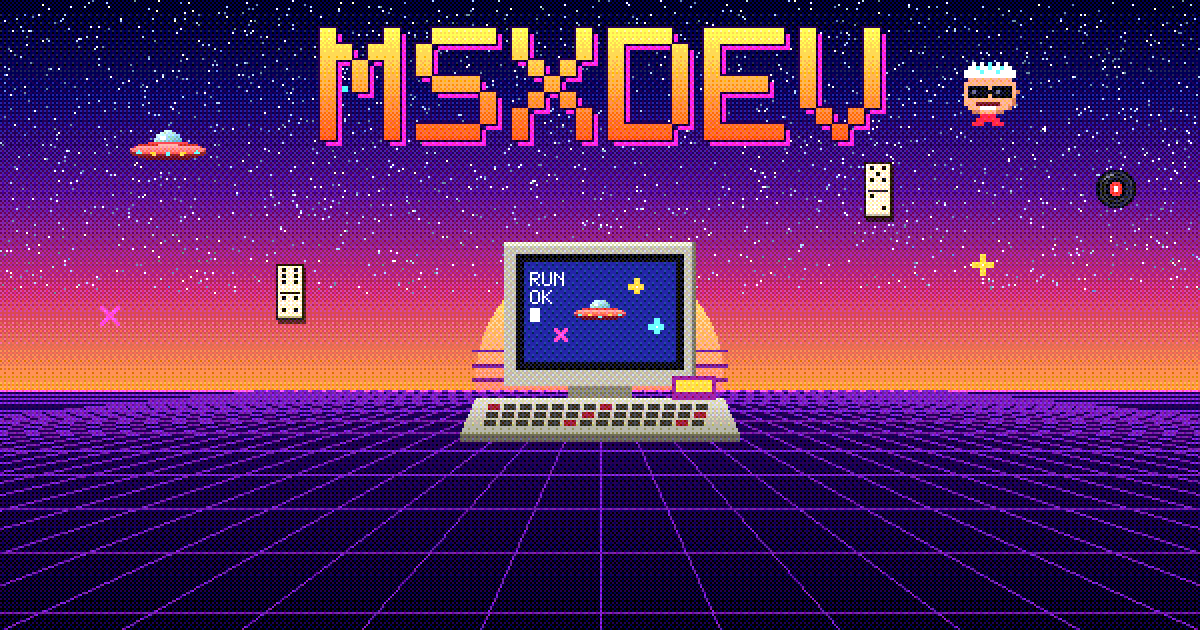
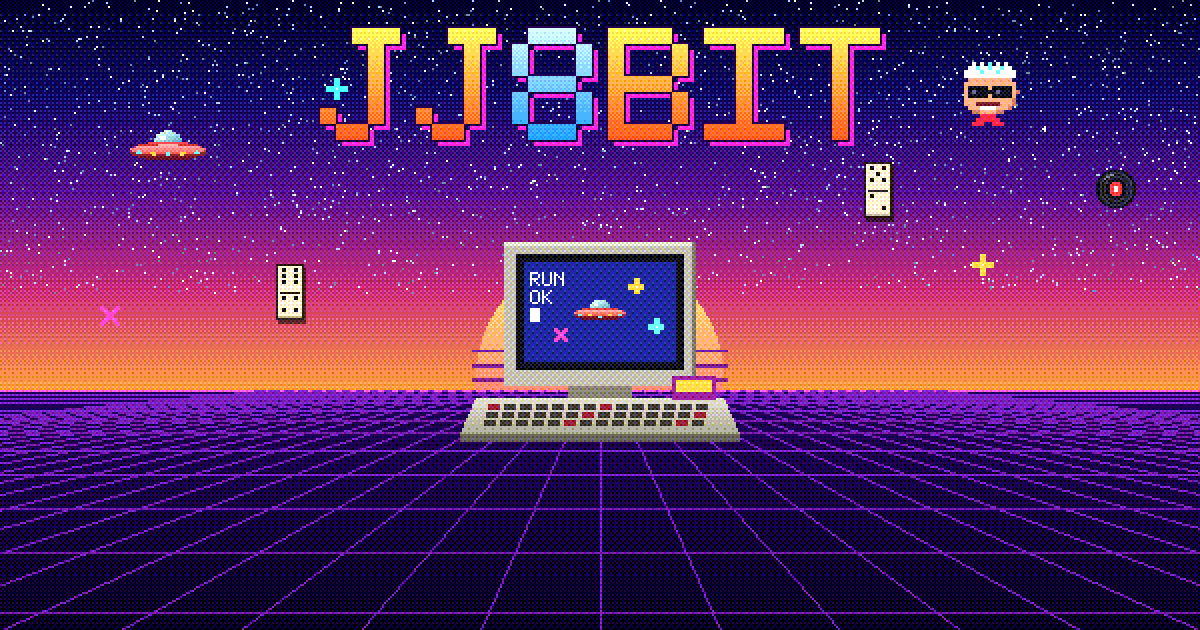
JJ8bit: nova marca, contato e jogo online pelo jj8bit.com.br

Changed region(s): [[0.2467, 0.0302, 0.74, 0.2413]]

diff --git a/index.html b/index.html
@@ -3,14 +3,14 @@
 <head>
 <meta charset="utf-8">
 <meta name="viewport" content="width=device-width,initial-scale=1">
-<title>MSXDev — jogos novos para MSX2 e MSX2+</title>
+<title>JJ8bit — jogos novos para MSX2 e MSX2+</title>
 <meta name="description" content="Jogos novos para MSX2 e MSX2+, de Julian Jantsch: OVNI, Senhor das Trevas, Jumping Jack, Muamba!, Orion Wave, Sudoku e Dominó. Download grátis das ROMs.">
-<link rel="canonical" href="https://msxdev.com.br/">
+<link rel="canonical" href="https://jj8bit.com.br/">
 <meta property="og:type" content="website">
-<meta property="og:title" content="MSXDev — jogos novos para MSX2 e MSX2+">
+<meta property="og:title" content="JJ8bit — jogos novos para MSX2 e MSX2+">
 <meta property="og:description" content="OVNI, Senhor das Trevas, Jumping Jack, Muamba!, Orion Wave, Sudoku e Dominó. Download grátis.">
-<meta property="og:url" content="https://msxdev.com.br/">
-<meta property="og:image" content="https://msxdev.com.br/art/og.png">
+<meta property="og:url" content="https://jj8bit.com.br/">
+<meta property="og:image" content="https://jj8bit.com.br/art/og.png">
 <meta name="theme-color" content="#0c0830">
 <link rel="icon" href="art/favicon.png">
 <link rel="stylesheet" href="style.css">
@@ -20,7 +20,7 @@
   <img class="cena" src="art/hero.png" width="400" height="180" alt="Um computador doméstico antigo diante de um pôr do sol em pixel art, cercado por um disco voador, peças de dominó e o Jack.">
   <div class="idioma"><button type="button" data-lang="pt" aria-pressed="true">PT</button><button type="button" data-lang="en" aria-pressed="false">EN</button></div>
   <div class="topo-txt">
-    <h1><img class="logo" src="art/logo.png" width="480" height="124" alt="MSXDev"></h1>
+    <h1><img class="logo" src="art/logo.png" width="480" height="124" alt="JJ8bit"></h1>
     <p data-en="Brand-new games for a 1980s computer. Free ROMs for emulators and real machines.">Jogos novos para um computador dos anos 80. ROMs grátis, para emulador e para MSX de verdade.</p>
   </div>
 </header>
@@ -66,7 +66,7 @@
       <img loading="lazy" src="img/ovni-2.png" alt="OVNI no modo moderno, com sprites sombreados">
       <img loading="lazy" src="img/ovni-3.png" alt="OVNI no modo moderno, durante uma explosão">
     </div>
-    <div class="acoes"><a class="btn" href="dl/ovni-msx2plus-4.6.zip" download data-dl="OVNI" data-tam="11 KB"><span data-en="Download">Baixar</span> · 11 KB</a><a class="btn sec" href="https://webmsx.org/?MACHINE=MSX2P&amp;ROM=https://msxdev.com.br/rom/OVNI.ROM" target="_blank" rel="noopener"><span data-en="Play online">Jogar online</span></a></div>
+    <div class="acoes"><a class="btn" href="dl/ovni-msx2plus-4.6.zip" download data-dl="OVNI" data-tam="11 KB"><span data-en="Download">Baixar</span> · 11 KB</a><a class="btn sec" href="https://webmsx.org/?MACHINE=MSX2P&amp;ROM=https://jj8bit.com.br/rom/OVNI.ROM" target="_blank" rel="noopener"><span data-en="Play online">Jogar online</span></a></div>
   </div>
 </article>
 
@@ -89,7 +89,7 @@
       <video controls preload="none" poster="img/tre-1.png" src="img/tre.mp4" aria-label="Vídeo do Senhor das Trevas nos quatro modos"></video>
       <img loading="lazy" src="img/tre-1.png" alt="Senhor das Trevas, tela SELECT GAME com os quatro modos">
     </div>
-    <div class="acoes"><a class="btn" href="dl/senhor-das-trevas-msx2plus-0.12.zip" download data-dl="Senhor das Trevas" data-tam="48 KB"><span data-en="Download">Baixar</span> · 48 KB</a><a class="btn sec" href="https://webmsx.org/?MACHINE=MSX2P&amp;ROM=https://msxdev.com.br/rom/TREVAS.ROM" target="_blank" rel="noopener"><span data-en="Play online">Jogar online</span></a></div>
+    <div class="acoes"><a class="btn" href="dl/senhor-das-trevas-msx2plus-0.12.zip" download data-dl="Senhor das Trevas" data-tam="48 KB"><span data-en="Download">Baixar</span> · 48 KB</a><a class="btn sec" href="https://webmsx.org/?MACHINE=MSX2P&amp;ROM=https://jj8bit.com.br/rom/TREVAS.ROM" target="_blank" rel="noopener"><span data-en="Play online">Jogar online</span></a></div>
   </div>
 </article>
 
@@ -113,7 +113,7 @@
       <img loading="lazy" src="img/jj-2.png" alt="Jumping Jack, fase 1, com os discos no tabuleiro">
       <img loading="lazy" src="img/jj-3.png" alt="Jumping Jack, fase 13, com portais">
     </div>
-    <div class="acoes"><a class="btn" href="dl/jumpingjack-msx2plus-wave-1.9.zip" download data-dl="Jumping Jack Wave Edition" data-tam="87 MB"><span data-en="Download everything">Baixar tudo</span> · 87 MB</a><a class="btn sec" href="https://webmsx.org/?MACHINE=MSX2P&amp;ROM=https://msxdev.com.br/rom/JJACK.ROM" target="_blank" rel="noopener"><span data-en="Play online">Jogar online</span></a></div>
+    <div class="acoes"><a class="btn" href="dl/jumpingjack-msx2plus-wave-1.9.zip" download data-dl="Jumping Jack Wave Edition" data-tam="87 MB"><span data-en="Download everything">Baixar tudo</span> · 87 MB</a><a class="btn sec" href="https://webmsx.org/?MACHINE=MSX2P&amp;ROM=https://jj8bit.com.br/rom/JJACK.ROM" target="_blank" rel="noopener"><span data-en="Play online">Jogar online</span></a></div>
     <p class="nota" data-en="The package has the ROM, the manual and all 37 songs. Copy the whole folder to the Pico+ card. Without the Pico+, the game plays the same songs in FM on machines with MSX-MUSIC (built into most MSX2+, or an FM-PAC); the MUSIC menu switches between Wave Game, FM and off.">O pacote traz a ROM, o manual e as 37 faixas. Copie a pasta inteira para o cartão do Pico+. Sem o Pico+, o jogo toca as mesmas músicas em FM nos micros com MSX-MUSIC (embutido na maioria dos MSX2+, ou num FM-PAC); o menu MUSIC troca entre Wave Game, FM e sem música.</p>
   </div>
 </article>
@@ -137,7 +137,7 @@
       <video controls preload="none" poster="img/mua-1.png" src="img/mua.mp4" aria-label="Trailer do Muamba!"></video>
       <img loading="lazy" src="img/mua-1.png" alt="Muamba!, a abertura com a Ponte da Amizade à noite">
     </div>
-    <div class="acoes"><a class="btn" href="dl/muamba-msx2-15.zip" download data-dl="Muamba!" data-tam="110 KB"><span data-en="Download">Baixar</span> · 110 KB</a><a class="btn sec" href="https://webmsx.org/?MACHINE=MSX2P&amp;MOUSE_MODE=1&amp;ROM=https://msxdev.com.br/rom/MUAMBA.ROM" target="_blank" rel="noopener"><span data-en="Play online">Jogar online</span></a></div>
+    <div class="acoes"><a class="btn" href="dl/muamba-msx2-15.zip" download data-dl="Muamba!" data-tam="110 KB"><span data-en="Download">Baixar</span> · 110 KB</a><a class="btn sec" href="https://webmsx.org/?MACHINE=MSX2P&amp;MOUSE_MODE=1&amp;ROM=https://jj8bit.com.br/rom/MUAMBA.ROM" target="_blank" rel="noopener"><span data-en="Play online">Jogar online</span></a></div>
     <aside class="oferta peq">
       <p data-en="<b>Donate R$ 40.00 or more, or US$ 10.00 or more, and get this game with your name.</b> By e-mail, within 5 business days. To customize the game: R$ 100.00 or US$ 20.00, quoted individually."><b>Doe R$ 40,00 ou mais, ou US$ 10,00 ou mais, e ganhe este jogo com o seu nome.</b> Por e-mail, em até 5 dias úteis. Para personalizar o jogo: R$ 100,00 ou US$ 20,00, sob consulta.</p>
       <button type="button" class="btn sec peq" data-oferta="Muamba!" data-en="I want my ROM">Quero a minha ROM</button>
@@ -164,7 +164,7 @@
       <img loading="lazy" src="img/ori-2.png" alt="Orion Wave, abertura com o planeta e a nebulosa">
       <img loading="lazy" src="img/ori-3.png" alt="Orion Wave, fase 1 com inimigos em fila">
     </div>
-    <div class="acoes"><a class="btn" href="dl/orionwave-v2.0-pico.zip" download data-dl="Orion Wave" data-tam="27 MB"><span data-en="Download everything">Baixar tudo</span> · 27 MB</a><a class="btn sec" href="https://webmsx.org/?MACHINE=MSX2P&amp;ROM=https://msxdev.com.br/rom/ORION.ROM" target="_blank" rel="noopener"><span data-en="Play online">Jogar online</span></a></div>
+    <div class="acoes"><a class="btn" href="dl/orionwave-v2.0-pico.zip" download data-dl="Orion Wave" data-tam="27 MB"><span data-en="Download everything">Baixar tudo</span> · 27 MB</a><a class="btn sec" href="https://webmsx.org/?MACHINE=MSX2P&amp;ROM=https://jj8bit.com.br/rom/ORION.ROM" target="_blank" rel="noopener"><span data-en="Play online">Jogar online</span></a></div>
     <aside class="oferta peq">
       <p data-en="<b>Donate R$ 40.00 or more, or US$ 10.00 or more, and get this game with your name.</b> By e-mail, within 5 business days. To customize the game: R$ 100.00 or US$ 20.00, quoted individually."><b>Doe R$ 40,00 ou mais, ou US$ 10,00 ou mais, e ganhe este jogo com o seu nome.</b> Por e-mail, em até 5 dias úteis. Para personalizar o jogo: R$ 100,00 ou US$ 20,00, sob consulta.</p>
       <button type="button" class="btn sec peq" data-oferta="Orion Wave" data-en="I want my ROM">Quero a minha ROM</button>
@@ -193,7 +193,7 @@
       <img loading="lazy" src="img/sud-2.png" alt="Sudoku, partida em andamento">
       <img loading="lazy" src="img/sud-3.png" alt="Sudoku, tela de parabéns">
     </div>
-    <div class="acoes"><a class="btn" href="dl/sudoku-msx2.zip" download data-dl="Sudoku" data-tam="17 KB"><span data-en="Download">Baixar</span> · 17 KB</a><a class="btn sec" href="https://webmsx.org/?MACHINE=MSX2A&amp;MOUSE_MODE=1&amp;ROM=https://msxdev.com.br/rom/SUDOKU.ROM" target="_blank" rel="noopener"><span data-en="Play online">Jogar online</span></a></div>
+    <div class="acoes"><a class="btn" href="dl/sudoku-msx2.zip" download data-dl="Sudoku" data-tam="17 KB"><span data-en="Download">Baixar</span> · 17 KB</a><a class="btn sec" href="https://webmsx.org/?MACHINE=MSX2A&amp;MOUSE_MODE=1&amp;ROM=https://jj8bit.com.br/rom/SUDOKU.ROM" target="_blank" rel="noopener"><span data-en="Play online">Jogar online</span></a></div>
     <aside class="oferta peq">
       <p data-en="<b>Donate R$ 40.00 or more, or US$ 10.00 or more, and get this game with your name.</b> By e-mail, within 5 business days. To customize the game: R$ 100.00 or US$ 20.00, quoted individually."><b>Doe R$ 40,00 ou mais, ou US$ 10,00 ou mais, e ganhe este jogo com o seu nome.</b> Por e-mail, em até 5 dias úteis. Para personalizar o jogo: R$ 100,00 ou US$ 20,00, sob consulta.</p>
       <button type="button" class="btn sec peq" data-oferta="Sudoku" data-en="I want my ROM">Quero a minha ROM</button>
@@ -220,7 +220,7 @@
       <img loading="lazy" src="img/dom-2.png" alt="Dominó, escolha da ponta">
       <img loading="lazy" src="img/dom-3.png" alt="Dominó, fim de rodada">
     </div>
-    <div class="acoes"><a class="btn" href="dl/domino-msx2plus.zip" download data-dl="Dominó" data-tam="6 KB"><span data-en="Download">Baixar</span> · 6 KB</a><a class="btn sec" href="https://webmsx.org/?MACHINE=MSX2P&amp;ROM=https://msxdev.com.br/rom/DOMINO.ROM" target="_blank" rel="noopener"><span data-en="Play online">Jogar online</span></a></div>
+    <div class="acoes"><a class="btn" href="dl/domino-msx2plus.zip" download data-dl="Dominó" data-tam="6 KB"><span data-en="Download">Baixar</span> · 6 KB</a><a class="btn sec" href="https://webmsx.org/?MACHINE=MSX2P&amp;ROM=https://jj8bit.com.br/rom/DOMINO.ROM" target="_blank" rel="noopener"><span data-en="Play online">Jogar online</span></a></div>
     <aside class="oferta peq">
       <p data-en="<b>Donate R$ 40.00 or more, or US$ 10.00 or more, and get this game with your name.</b> By e-mail, within 5 business days. To customize the game: R$ 100.00 or US$ 20.00, quoted individually."><b>Doe R$ 40,00 ou mais, ou US$ 10,00 ou mais, e ganhe este jogo com o seu nome.</b> Por e-mail, em até 5 dias úteis. Para personalizar o jogo: R$ 100,00 ou US$ 20,00, sob consulta.</p>
       <button type="button" class="btn sec peq" data-oferta="Dominó" data-en="I want my ROM">Quero a minha ROM</button>
@@ -243,7 +243,8 @@
 <section class="miolo" id="apoie">
   <h2 data-en="Support the next cartridge">Apoie o próximo cartucho</h2>
   <p data-en="Every game here is free. A donation is optional and helps fund the next ones.">Todos os jogos daqui são grátis. A doação é opcional e ajuda a fazer os próximos.</p>
-  <p data-en="All games developed by Julian Jantsch.">Todos os jogos desenvolvidos por Julian Jantsch.</p>
+  <p data-en="JJ8bit: all games developed by Julian Jantsch.">JJ8bit: todos os jogos desenvolvidos por Julian Jantsch.</p>
+  <p class="contato" data-en="Contact: <a href='mailto:contato@jj8bit.com.br'>contato@jj8bit.com.br</a>">Contato: <a href="mailto:contato@jj8bit.com.br">contato@jj8bit.com.br</a></p>
   <div class="acoes"><button type="button" class="btn" data-apoiar data-en="Make a donation">Fazer uma doação</button></div>
 </section>
 

diff --git a/js/config.js b/js/config.js
@@ -4,5 +4,5 @@ window.DONATE = {
   pixKey: "33849e9a-44df-4197-9b58-b012929e0ca3",        // chave Pix
   pixName: "Julian Jantsch",       // nome do recebedor, ate 25 letras (aparece no app do banco)
   pixCity: "Blumenau",       // cidade do recebedor, ate 15 letras
-  paypal: "https://www.paypal.com/donate/?business=RLEZLSKAUBC7J&no_recurring=1&item_name=Support+free+homebrew+MSX+games+from+msxdev.com.br&currency_code=USD"         // link do PayPal, ex.: https://www.paypal.com/donate/?business=...
+  paypal: "https://www.paypal.com/donate/?business=RLEZLSKAUBC7J&no_recurring=1&item_name=Support+free+homebrew+MSX+games+from+jj8bit.com.br&currency_code=USD"         // link do PayPal, ex.: https://www.paypal.com/donate/?business=...
 };
